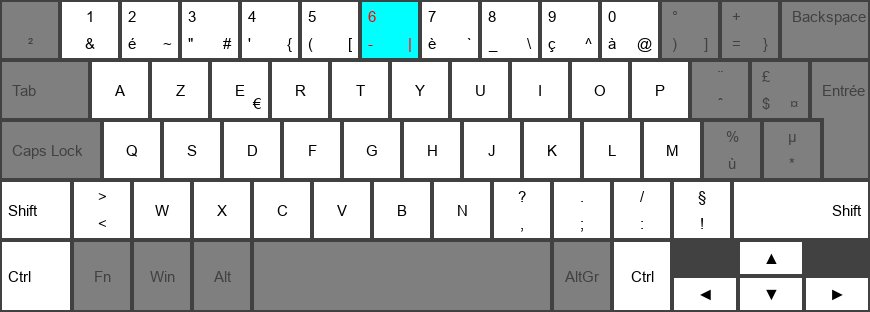
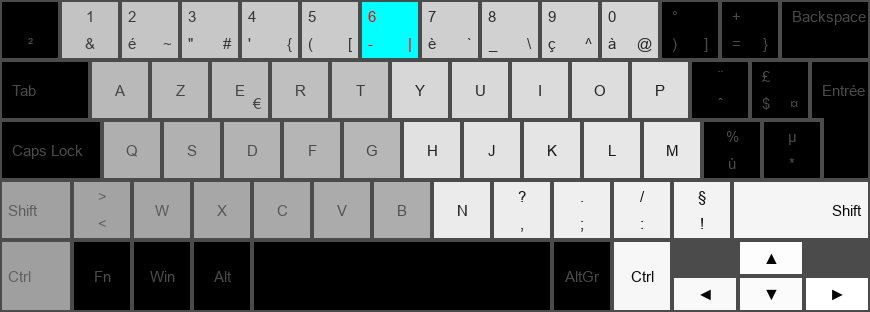
Uses descending white colors for anchor mode keyboard, azerty uses it

diff --git a/pianoputer/pianoputer.py b/pianoputer/pianoputer.py
@@ -77,7 +77,7 @@ def get_or_create_key_sounds(
         cached_path = Path(cache_folder_path, '{}.wav'.format(tone))
         if Path(cached_path).exists():
             print(
-                "Loading note {} out of {} for key {}".format(
+                "Loading note {} out of {} for {}".format(
                     i+1,
                     len(tones),
                     keys[i]
@@ -161,22 +161,38 @@ def get_keyboard_info(keyboard_file: str):
         )
     tones = [i - anchor_index for i in range(len(keys))]
     color_name_to_key = defaultdict(list)
+    if black_key_indices:
+        key_color = (120, 120, 120, 255)
+        key_txt_color = (50, 50, 50, 255)
+    else:
+        key_color = (0, 0, 0, 255)
+        key_txt_color = (75, 75, 75, 255)
     for index, key in enumerate(keys):
         if index == anchor_index:
             color_name_to_key['cyan'].append(key)
             continue
-        used_index = (index - anchor_index) % 12
-        if used_index in black_key_indices:
-            color_name_to_key['black'].append(key)
+        if black_key_indices:
+            used_index = (index - anchor_index) % 12
+            if used_index in black_key_indices:
+                color_name_to_key['black'].append(key)
+                continue
+            color_name_to_key['white'].append(key)
             continue
-        color_name_to_key['white'].append(key)
-    return keys, tones, color_name_to_key
+        # anchor mode, keys go up in half steps and we do not color black keys
+        # instead we color from grey low to white high
+        rgb_val = 255 - (len(keys) - 1 - index)*2
+        color = (rgb_val, rgb_val, rgb_val, 255)
+        color_name_to_key[color].append(key)
+
+    return keys, tones, color_name_to_key, key_color, key_txt_color
 
 def configure_pygame_audio_and_set_ui(
     framerate_hz: int,
     channels: int,
     keyboard_arg: str,
-    color_name_to_key: typing.Dict[str, typing.List[kl.Key]]
+    color_name_to_key: typing.Dict[str, typing.List[kl.Key]],
+    key_color: typing.Tuple[int, int, int, int],
+    key_txt_color: typing.Tuple[int, int, int, int],
 ) -> typing.Tuple[pygame.Surface, klp.KeyboardLayout]:
     # ui
     pygame.display.init()
@@ -194,50 +210,50 @@ def configure_pygame_audio_and_set_ui(
 
     screen_width = 50
     screen_height = 50
-    layout_name = None
     if 'qwerty' in keyboard_arg:
         layout_name = kl.LayoutName.QWERTY
     elif 'azerty' in keyboard_arg:
         layout_name = kl.LayoutName.AZERTY_LAPTOP
-    keyboard = None
-    if layout_name:
-        margin = 4
-        key_size = 60
-        overrides = {}
-        for color_name, keys in color_name_to_key.items():
-            override_color = color=pygame.Color(color_name)
-            override_key_info = kl.KeyInfo(
-                margin=margin,
-                color=override_color,
-                txt_color=~override_color,
-                txt_font=pygame.font.SysFont('Arial', key_size//4),
-                txt_padding=(key_size//10, key_size//10),
-            )
-            for key in keys:
-                overrides[key.value] = override_key_info
-        grey = pygame.Color('grey')
-        keyboard_info = kl.KeyboardInfo(
-            position=(0, 0),
-            padding=2,
-            color=~grey
-        )
-        key_info = kl.KeyInfo(
+    else:
+        ValueError('keyboard must have qwerty or azerty in its name')
+    margin = 4
+    key_size = 60
+    overrides = {}
+    for color_value, keys in color_name_to_key.items():
+        override_color = color=pygame.Color(color_value)
+        override_key_info = kl.KeyInfo(
             margin=margin,
-            color=pygame.Color('grey50'),
-            txt_color=~grey,  # invert grey
+            color=override_color,
+            txt_color=~override_color,
             txt_font=pygame.font.SysFont('Arial', key_size//4),
-            txt_padding=(key_size//6, key_size//10)
+            txt_padding=(key_size//10, key_size//10),
         )
-        letter_key_size = (key_size, key_size)  # width, height
-        keyboard = klp.KeyboardLayout(
-            layout_name,
-            keyboard_info,
-            letter_key_size,
-            key_info,
-            overrides
-        )
-        screen_width = keyboard.rect.width
-        screen_height = keyboard.rect.height
+        for key in keys:
+            overrides[key.value] = override_key_info
+
+    key_txt_color = pygame.Color(key_txt_color)
+    keyboard_info = kl.KeyboardInfo(
+        position=(0, 0),
+        padding=2,
+        color=key_txt_color
+    )
+    key_info = kl.KeyInfo(
+        margin=margin,
+        color=pygame.Color(key_color),
+        txt_color=pygame.Color(key_txt_color),
+        txt_font=pygame.font.SysFont('Arial', key_size//4),
+        txt_padding=(key_size//6, key_size//10)
+    )
+    letter_key_size = (key_size, key_size)  # width, height
+    keyboard = klp.KeyboardLayout(
+        layout_name,
+        keyboard_info,
+        letter_key_size,
+        key_info,
+        overrides
+    )
+    screen_width = keyboard.rect.width
+    screen_height = keyboard.rect.height
 
     screen = pygame.display.set_mode((screen_width, screen_height))
     screen.fill(pygame.Color('black'))
@@ -316,12 +332,19 @@ def play_pianoputer():
     parser = get_parser()
     wav_path, keyboard_path, clear_cache = process_args(parser)
     audio_data, framerate_hz, channels = get_audio_data(wav_path)
-    keys, tones, color_name_to_key = get_keyboard_info(keyboard_path)
+    results = get_keyboard_info(keyboard_path)
+    keys, tones, color_name_to_key, key_color, key_txt_color = results
     key_sounds = get_or_create_key_sounds(
         wav_path, framerate_hz, channels, tones, clear_cache, keys)
 
     _screen, keyboard = configure_pygame_audio_and_set_ui(
-        framerate_hz, channels, keyboard_path, color_name_to_key)
+        framerate_hz,
+        channels,
+        keyboard_path,
+        color_name_to_key,
+        key_color,
+        key_txt_color
+    )
     print(
         'Ready for you to play!\n'
         'Press the keys on your keyboard. '

diff --git a/tests/test_pianoputer.py b/tests/test_pianoputer.py
@@ -22,11 +22,18 @@ class PianoPuter(unittest.TestCase):
             args = ['-k', keyboard]
             wav_path, keyboard_path, clear_cache = pp.process_args(parser, args)
             audio_data, framerate_hz, channels = pp.get_audio_data(wav_path)
-            _keys, _tones, color_name_to_key = pp.get_keyboard_info(
+            results = pp.get_keyboard_info(
                 keyboard_path)
+            _keys, _tones, color_name_to_key, key_color, key_txt_color = results
 
             screen, _keyboard_graphic = pp.configure_pygame_audio_and_set_ui(
-                framerate_hz, channels, keyboard_path, color_name_to_key)
+                framerate_hz,
+                channels,
+                keyboard_path,
+                color_name_to_key,
+                key_color,
+                key_txt_color
+            )
 
             _, file_name_with_ext = os.path.split(keyboard)
             file_name, file_extension = os.path.splitext(file_name_with_ext)

diff --git a/README.md b/README.md
@@ -36,7 +36,7 @@ Note that the default keyboard configuration (stored in file `keyboards/qwerty_p
 ```
 pianoputer -k keyboards/azerty_typewriter.txt
 ```
-
+![azerty laptop](./pianoputer/keyboards/azerty_typewriter.jpg "azerty laptop keyboard layout")
 These `.txt` files simply contain a sequence of key names and are easy to edit. For convenience this repository also provides a `make_kb_file.py` program:
 ```
 python make_kb_file.py
@@ -57,7 +57,3 @@ pianoputer
 
 ## Attributions
 - c4 piano sample from https://en.wikipedia.org/wiki/File:Middle_C.mid
-
-## TODO
-- allow the word anchor as an anchor, if so then color active keys in ascending white
-- limit setup.py instal to python <= 3.9 because somehow lvmlite is needed and https://github.com/numba/llvmlite/issues/530#issuecomment-555673204 -> https://github.com/numba/numba/issues/6345
